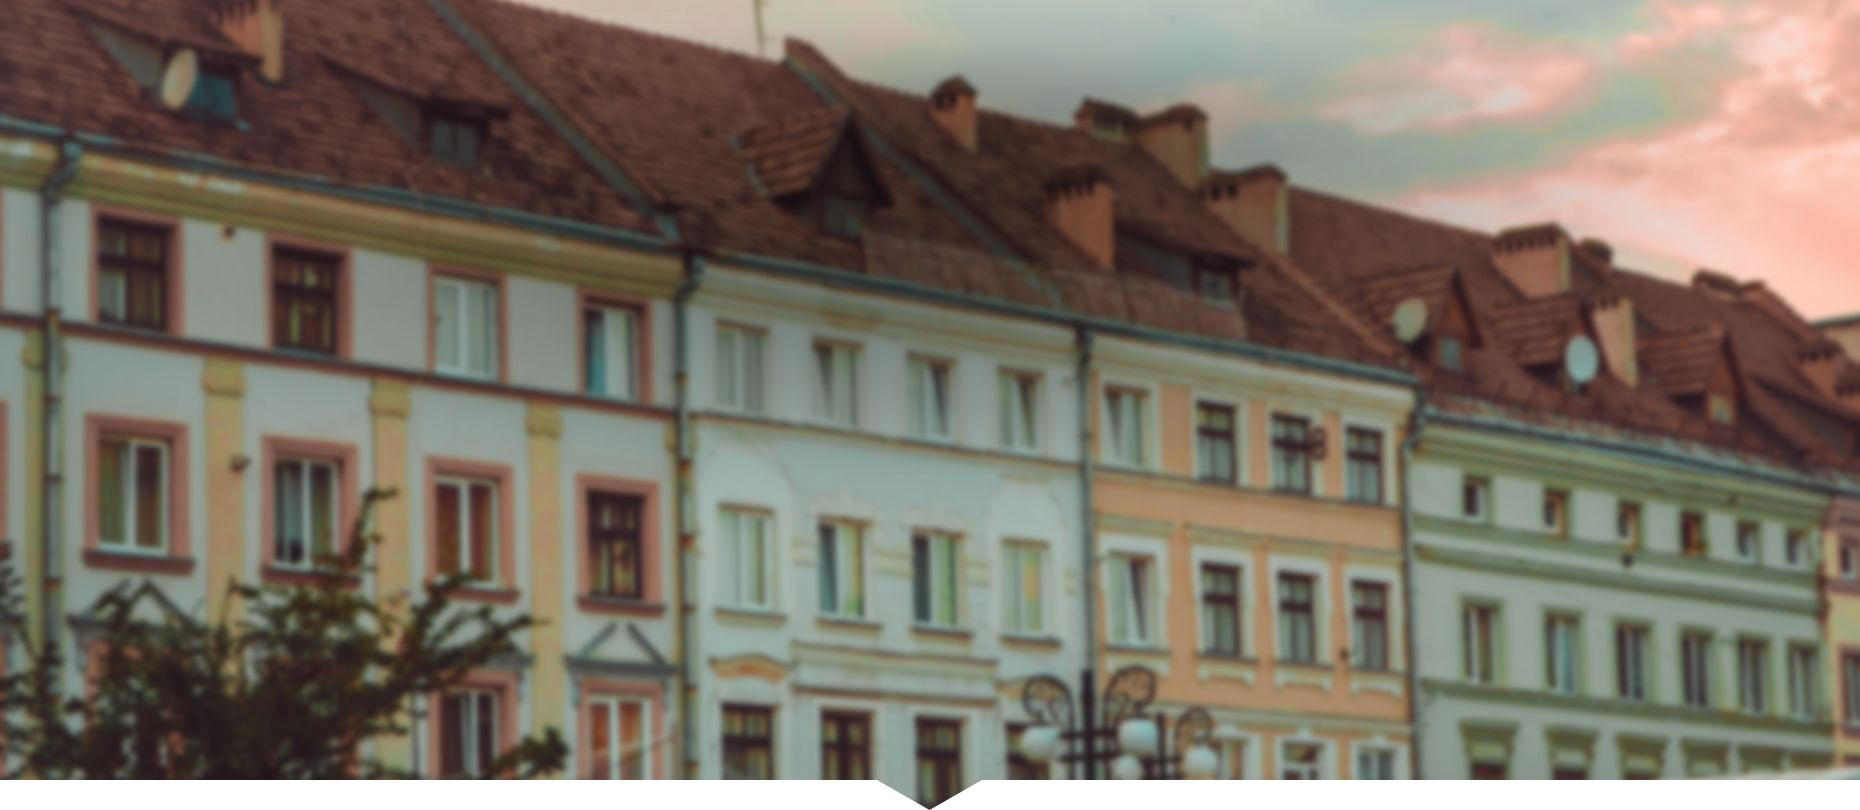
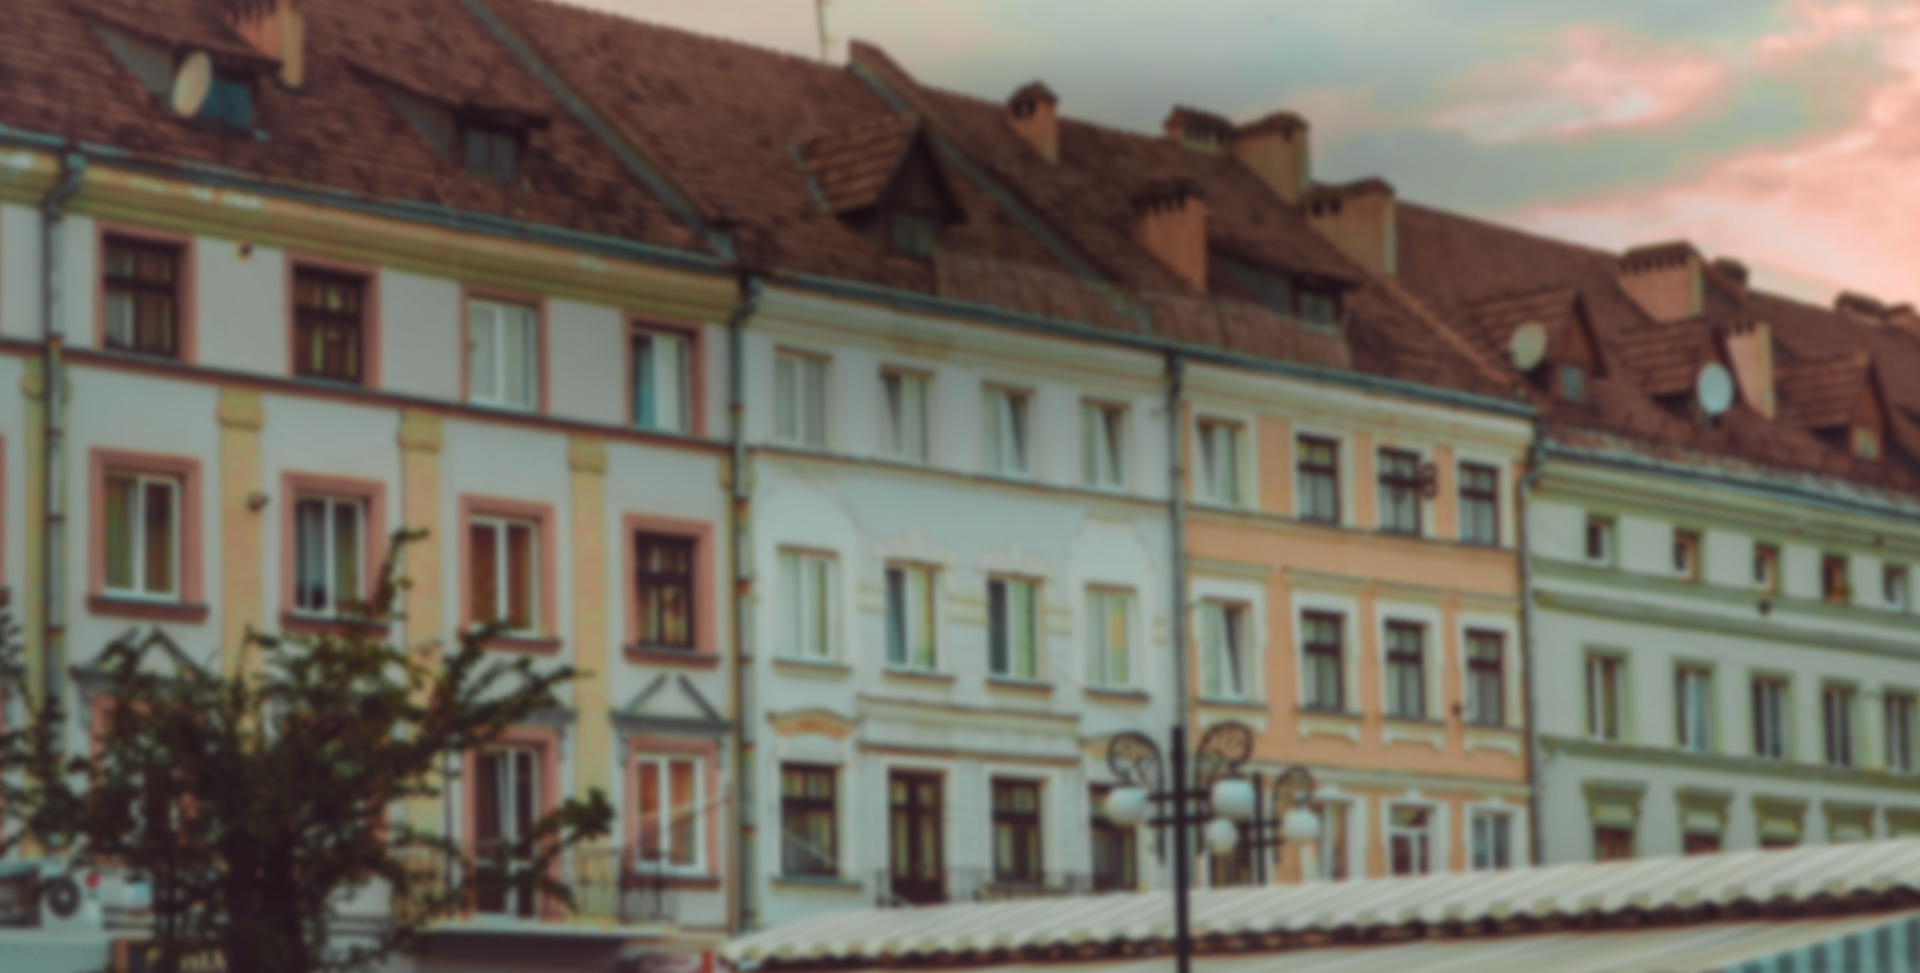
map

diff --git a/src/sass/app.scss b/src/sass/app.scss
@@ -52,6 +52,7 @@ header{
   background-color: rgba(0, 0, 0, 0.4);
   height: em(80);
   position: absolute;
+  z-index: 99;
   .logo {
     width: em(63);
     height: em(63);
@@ -96,6 +97,7 @@ header{
 .header-image {
   background: url('/assets/photo.jpg') no-repeat center center;
   background-size: cover;
+  position: relative;
   height: em(810);
   width: 100%;
   min-width: $min-container;
@@ -133,6 +135,16 @@ header{
     font-weight: 700;
     font-size: em(18);
     padding-bottom: em(19, 18);
+  }
+  .triangle{
+    height: em(30);
+    width: 100%;
+    min-width: $min-container;
+
+    position: absolute;
+    bottom: 0;
+    background: url('/assets/triangle.png') no-repeat center center;
+    background-size: cover;
   }
 }
 
@@ -197,19 +209,24 @@ section.projects {
   .project {
     cursor: pointer;
     display: inline-block;
-    background-size: cover;
+    background-size: 100% 100%;
     background-repeat: no-repeat;
     background-position: center center;
+    transition: background-size 0.4s ease-in;
     .info {
       visibility:hidden;
       opacity: 0;
       background-color:  rgba(0, 0, 0, 0.73);
-      transition-duration: 1s;
+      transition-duration: 0.4s;
       @include fill-parent;
+    }
+    &:hover {
+      background-size: 110% 110%;
     }
     &:hover .info {
       visibility:visible;
       opacity:1;
+      transition-duration: 0.4s;
     }
   }
   .top-projects {
@@ -340,13 +357,15 @@ section.map {
   .list {
     line-height: em(28);
     width: em(310);
-    position: absolute;
-    top: 0;
-    right: 0;
+    position: relative;
+    top: em(-405);
+    left: em(315);
+    z-index:999;
     list-style-type: none;
-    margin: 0;
+    margin: 0 auto;
     padding: em(30) 0;
     background: #fff;
+
     li {
       color: #737373;
       cursor: pointer;
@@ -358,7 +377,7 @@ section.map {
       padding-left: em(22);
       transition-duration: 0.2s;
 
-      &:before {
+      i {
         display: block;
         position: absolute;
         content: ' ';
@@ -383,7 +402,7 @@ section.map {
       }
       &:hover {
         background: #f6f6f6;
-        &:before {
+        i {
           width: em(15);
         }
       }
